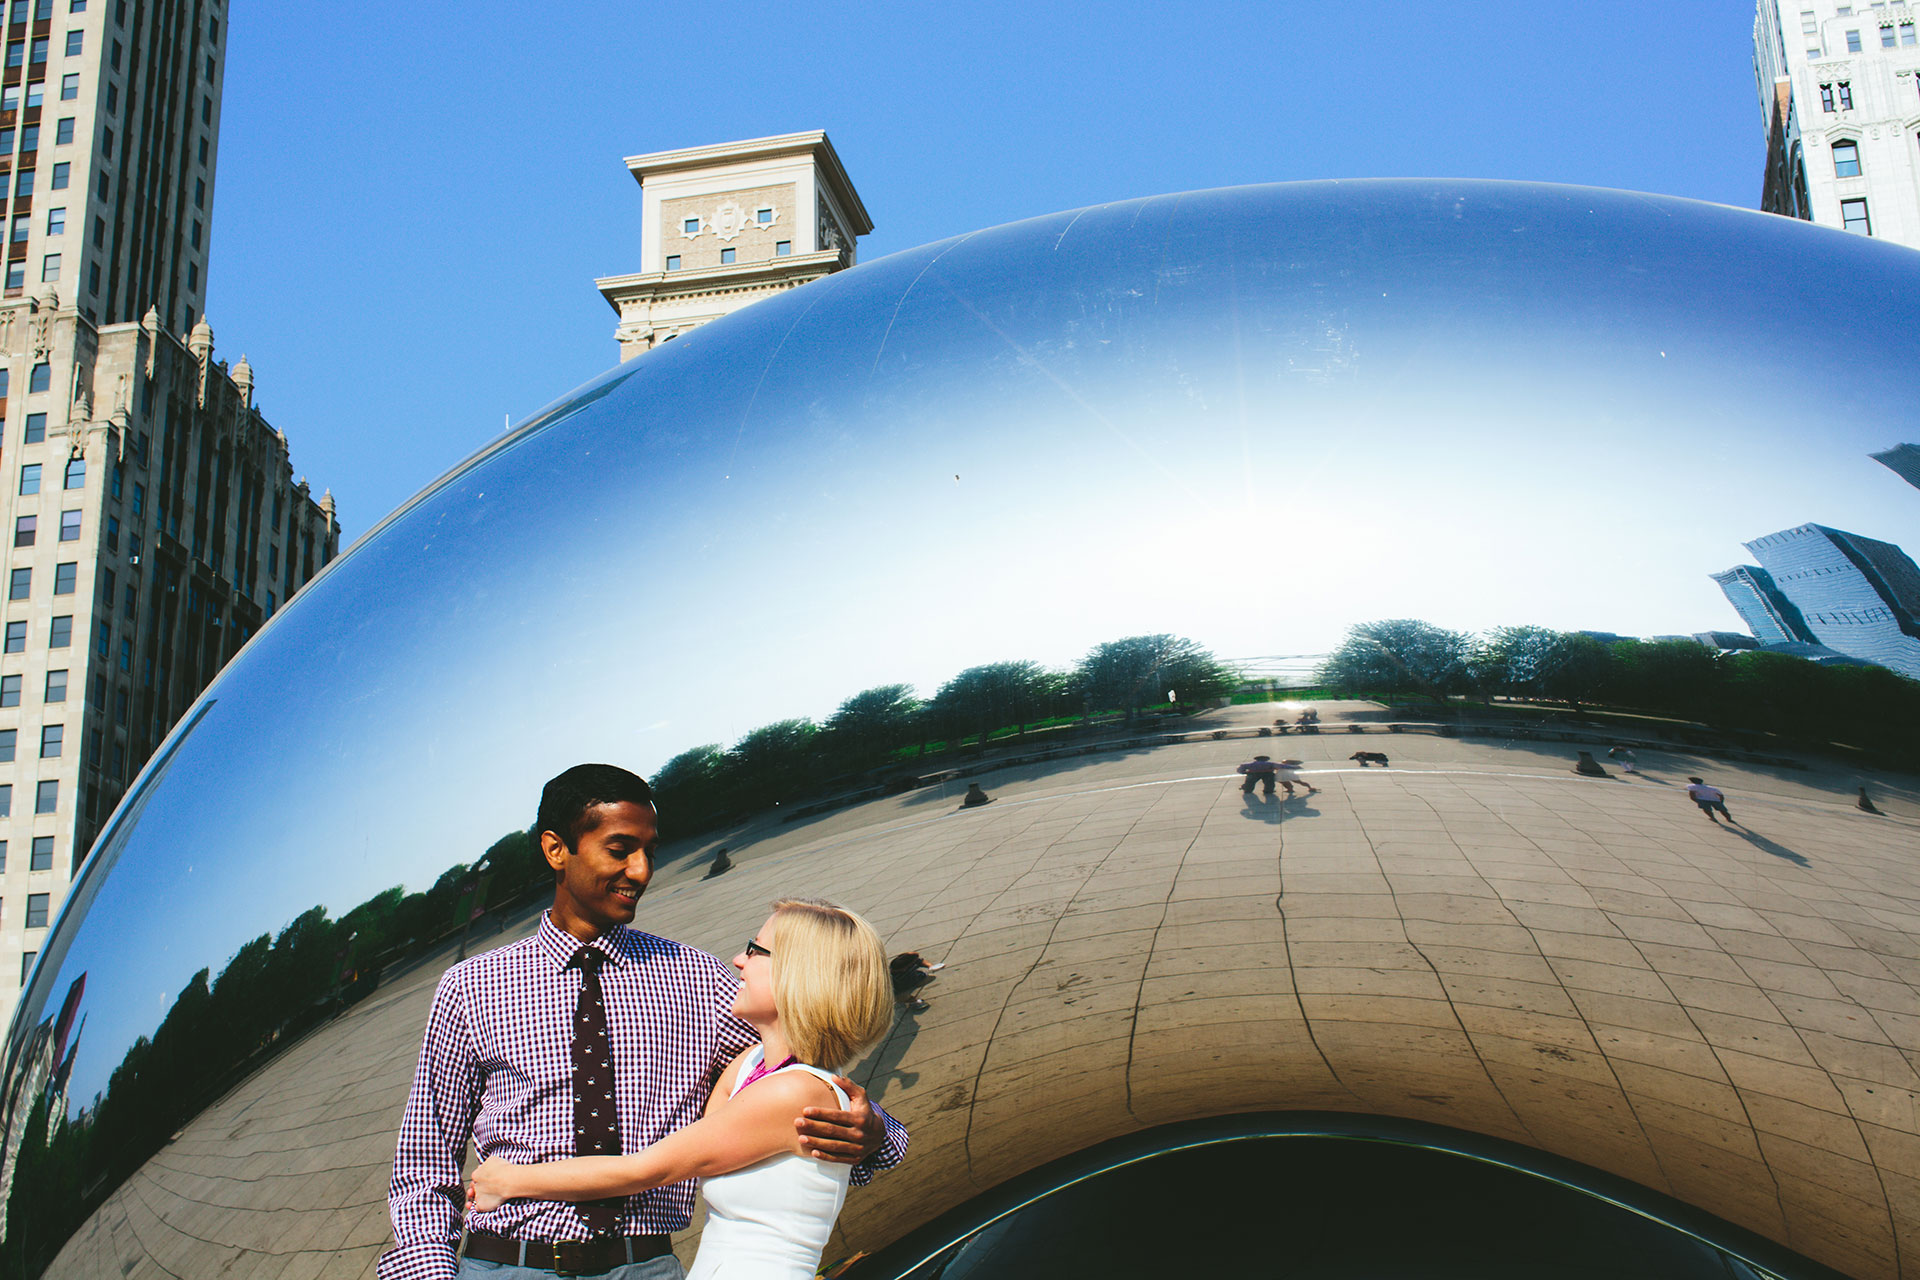
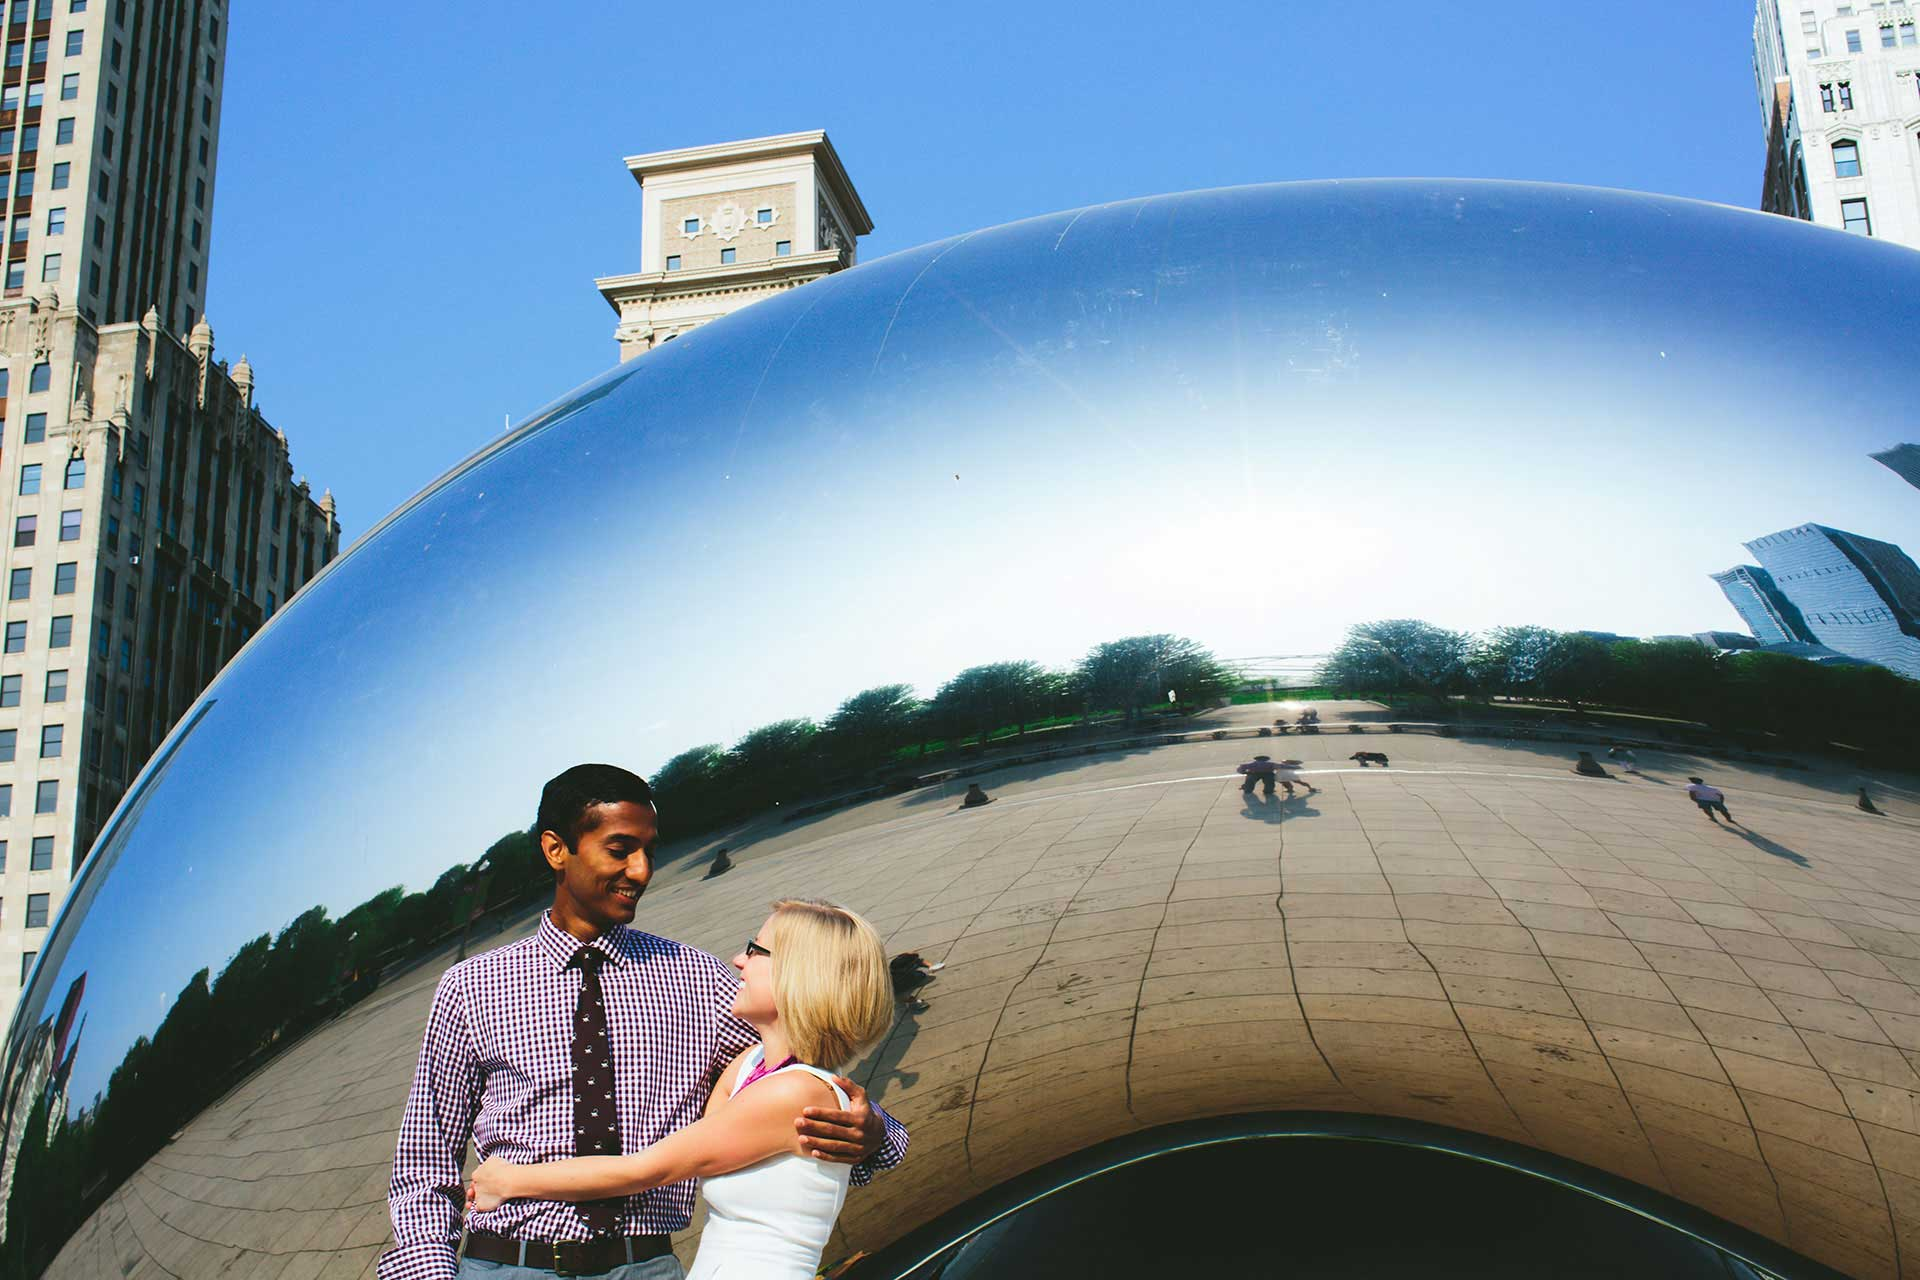
Optimized images

Changed region(s): [[0.1875, 0.7188, 0.4062, 1.0], [0.4375, 0.875, 0.4688, 0.9062]]

diff --git a/index.html b/index.html
@@ -88,7 +88,7 @@
 		</div>
 		<div class="row">
 			<div class="four columns">
-				<img class="party-image" src="images/party/lagrange.png" alt="" />
+				<img class="party-image" src="images/party/lagrange.jpg" alt="" />
 			</div>
 			<div class="twelve columns">
 				<div class="party-name">Jill LaGrange</div>
@@ -98,7 +98,7 @@
 		</div>
 		<div class="row">
 			<div class="four columns">
-				<img class="party-image" src="images/party/cecetka.png" alt="" />
+				<img class="party-image" src="images/party/cecetka.jpg" alt="" />
 			</div>
 			<div class="twelve columns">
 				<div class="party-name">Jackie Cecetka</div>
@@ -108,7 +108,7 @@
 		</div>
 		<div class="row">
 			<div class="four columns">
-				<img class="party-image" src="images/party/macinnes.png" alt="" />
+				<img class="party-image" src="images/party/macinnes.jpg" alt="" />
 			</div>
 			<div class="twelve columns">
 				<div class="party-name">Kate Macinnes</div>
@@ -118,7 +118,7 @@
 		</div>
 		<div class="row">
 			<div class="four columns">
-				<img class="party-image" src="images/party/curda.png" alt="" />
+				<img class="party-image" src="images/party/curda.jpg" alt="" />
 			</div>
 			<div class="twelve columns">
 				<div class="party-name">Alissa Curda</div>
@@ -128,7 +128,7 @@
 		</div>
 		<div class="row">
 			<div class="four columns">
-				<img class="party-image" src="images/party/lindsey.png" alt="" />
+				<img class="party-image" src="images/party/lindsey.jpg" alt="" />
 			</div>
 			<div class="twelve columns">
 				<div class="party-name">Lindsey Howard</div>
@@ -138,7 +138,7 @@
 		</div>
 		<div class="row isRight">
 			<div class="four columns">
-				<img class="party-image" src="images/party/vivek.png" alt="" />
+				<img class="party-image" src="images/party/vivek.jpg" alt="" />
 			</div>
 			<div class="twelve columns">
 				<div class="party-name">Vivek Huded</div>
@@ -148,7 +148,7 @@
 		</div>
 		<div class="row isRight">
 			<div class="four columns">
-				<img class="party-image" src="images/party/gautam.png" alt="" />
+				<img class="party-image" src="images/party/gautam.jpg" alt="" />
 			</div>
 			<div class="twelve columns">
 				<div class="party-name">Gautam Huded</div>
@@ -158,7 +158,7 @@
 		</div>
 		<div class="row isRight">
 			<div class="four columns">
-				<img class="party-image" src="images/party/adith.png" alt="" />
+				<img class="party-image" src="images/party/adith.jpg" alt="" />
 			</div>
 			<div class="twelve columns">
 				<div class="party-name">Adith Attawar</div>
@@ -168,7 +168,7 @@
 		</div>
 		<div class="row isRight">
 			<div class="four columns">
-				<img class="party-image" src="images/party/rc.png" alt="" />
+				<img class="party-image" src="images/party/rc.jpg" alt="" />
 			</div>
 			<div class="twelve columns">
 				<div class="party-name">Richard Cheng</div>
@@ -178,7 +178,7 @@
 		</div>
 		<div class="row isRight">
 			<div class="four columns">
-				<img class="party-image" src="images/party/rice.png" alt="" />
+				<img class="party-image" src="images/party/rice.jpg" alt="" />
 			</div>
 			<div class="twelve columns">
 				<div class="party-name">Connor and Braedon Rice</div>
